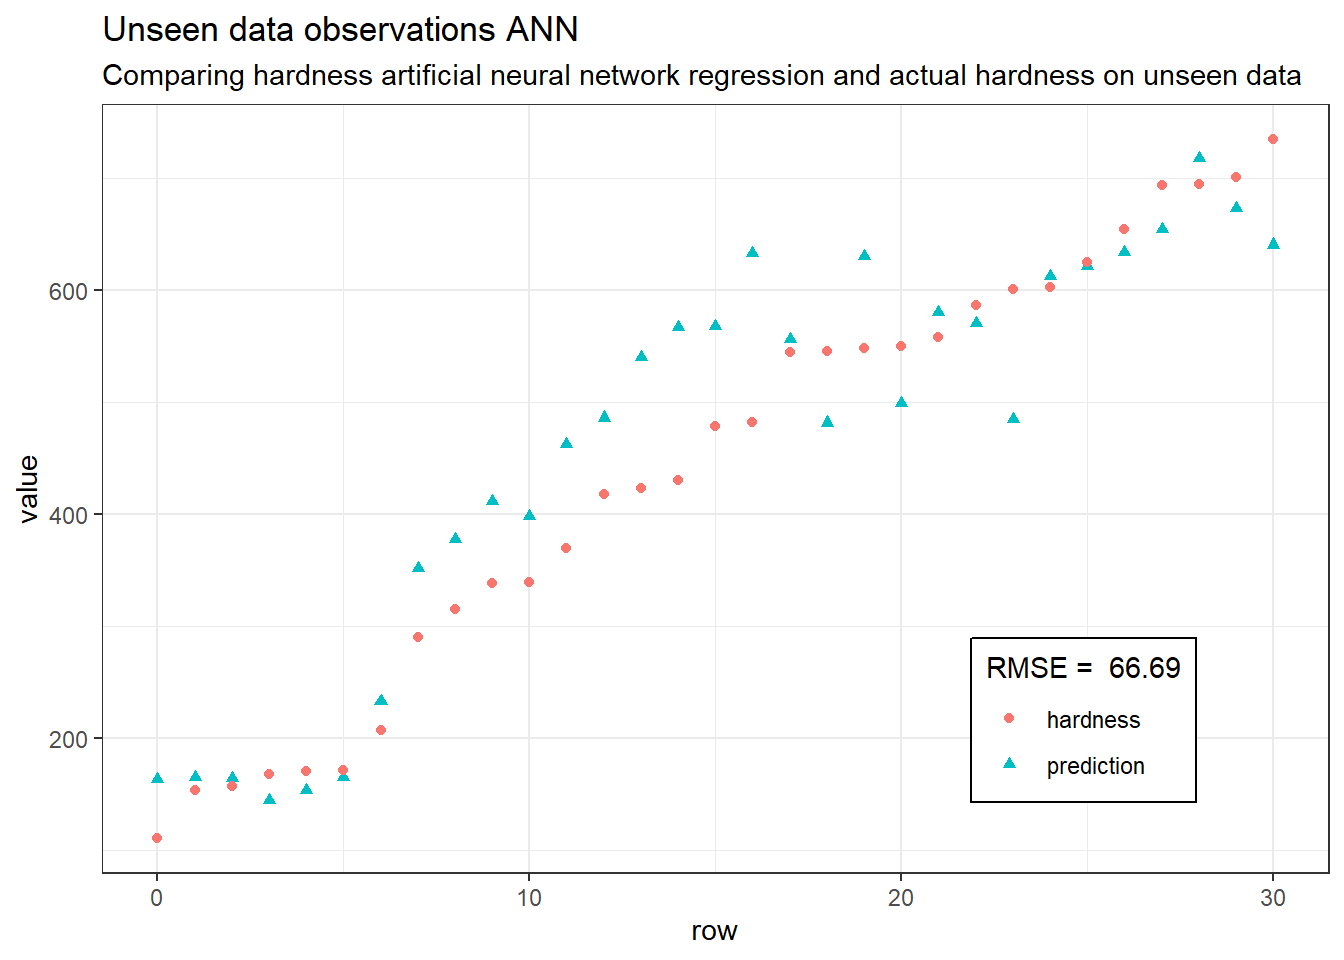
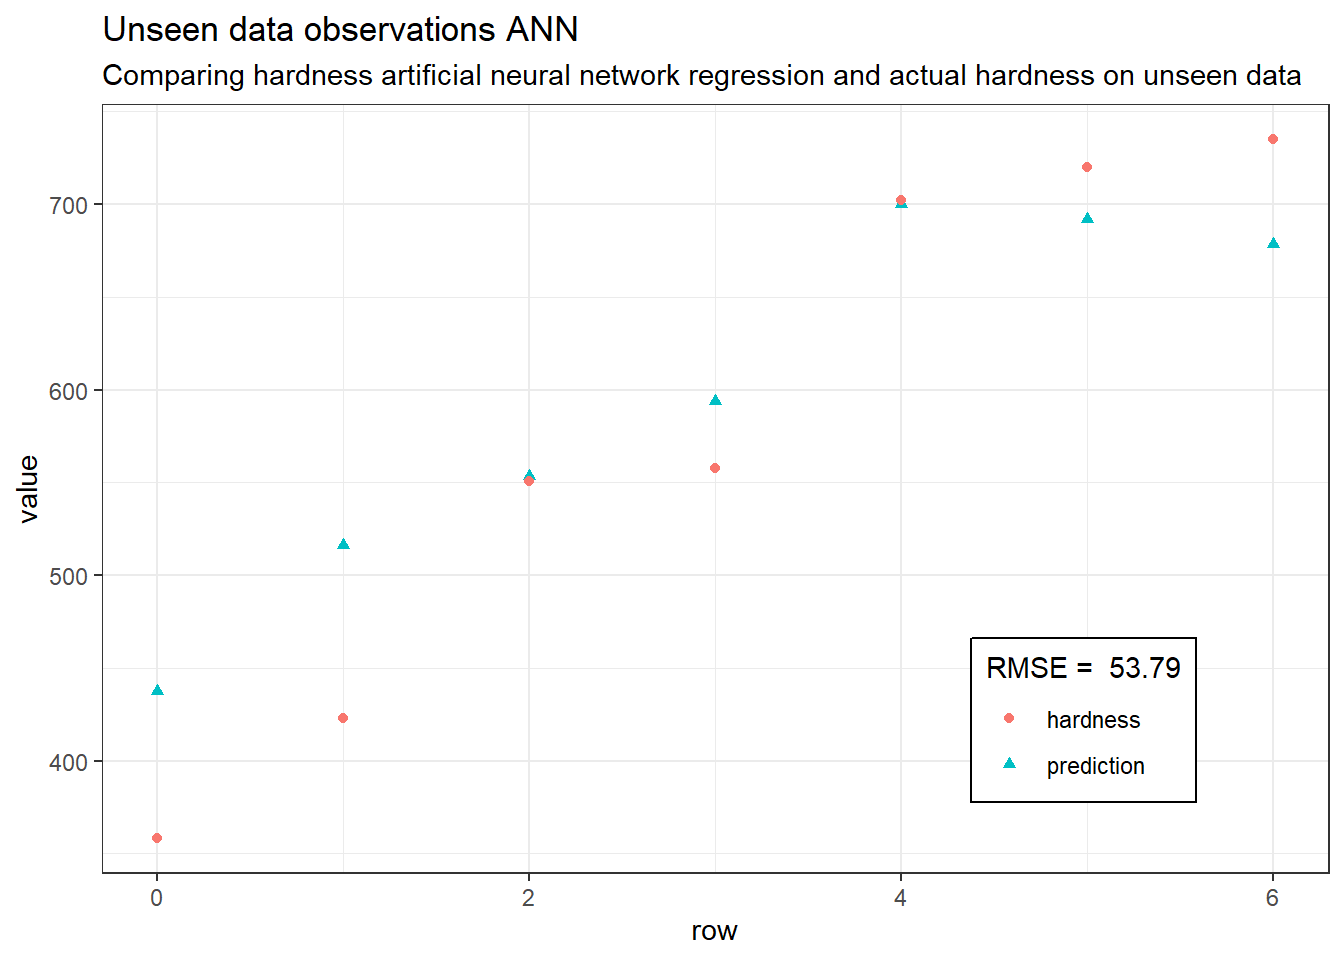
automated commit

diff --git a/public/2020/07/03/compositional-analysis/index.html b/public/2020/07/03/compositional-analysis/index.html
@@ -62,7 +62,7 @@
 
   <article class="article">
     
-    <span class="article-duration">7 min read</span>
+    <span class="article-duration">5 min read</span>
     
 
     <h1 class="article-title">Metallurgical compositional analysis</h1>
@@ -186,13 +186,13 @@ hard &lt;- read_csv(&quot;hardness.csv&quot;)
 #hard %&gt;% arrange(-hardness)</code></pre>
 <pre class="r"><code># Filtering out zero values for logratio transformations
 hard_ &lt;- hard %&gt;% 
-  #filter(Al &gt; 0, Co &gt; 0, Cr &gt; 0, Cu &gt; 0, Fe &gt; 0, Ni &gt; 0)
-   mutate(Al = ifelse(Al == 0, 1, Al),
-          Co = ifelse(Co == 0, 1, Co),
-          Cr = ifelse(Cr == 0, 1, Cr),
-          Cu = ifelse(Cu == 0, 1, Cu),
-          Fe = ifelse(Fe == 0, 1, Fe),
-          Ni = ifelse(Ni == 0, 1, Ni))</code></pre>
+  filter(Al &gt; 0, Co &gt; 0, Cr &gt; 0, Cu &gt; 0, Fe &gt; 0, Ni &gt; 0)
+  #mutate(Al = ifelse(Al == 0, 1, Al),
+  #        Co = ifelse(Co == 0, 1, Co),
+  #        Cr = ifelse(Cr == 0, 1, Cr),
+  #        Cu = ifelse(Cu == 0, 1, Cu),
+  #        Fe = ifelse(Fe == 0, 1, Fe),
+  #        Ni = ifelse(Ni == 0, 1, Ni))</code></pre>
 <pre class="r"><code># Setting x, y
 
 
@@ -244,13 +244,13 @@ predictions.full %&gt;%
 <p><img src="/2020/07/03/compositional-analysis/index_files/figure-html/unnamed-chunk-17-1.png" width="672" /></p>
 <pre class="r"><code># Linear regression on ILR logratio transformation  
 RMSE(predictions.full$prediction.clr.lm, predictions.full$hardness)</code></pre>
-<pre><code>## [1] 87.3938</code></pre>
+<pre><code>## [1] 63.40838</code></pre>
 <pre class="r"><code># Lasso regression on ILR logratio transformation
 RMSE(predictions.full$prediction.ilr.glm, predictions.full$hardness)</code></pre>
-<pre><code>## [1] 87.44176</code></pre>
+<pre><code>## [1] 64.58476</code></pre>
 <pre class="r"><code># generalised additive model
 RMSE(predictions.full$prediction.clr.gam, predictions.full$hardness)</code></pre>
-<pre><code>## [1] 87.3938</code></pre>
+<pre><code>## [1] 63.40838</code></pre>
 <pre class="r"><code># library(robCompositions)
 # aDist(x = hard_[,1:ncol(hard)-1])
 #Compositional::alfa.ridge(as.matrix(y), as.matrix(x),a = 0.01, lambda = 1)</code></pre>
@@ -276,7 +276,7 @@ hard_ann &lt;- cbind(hard_$hardness,as.tibble(hard.clr)) %&gt;%
   mutate_all(scale01) %&gt;% rename(&quot;hardness&quot; = &quot;hard_$hardness&quot;)
 
 
-set.seed(123)
+set.seed(111)
 hard_ann_train &lt;- sample_frac(tbl = hard_ann, replace = FALSE, size = 0.80)
 hard_ann_test &lt;- anti_join(hard_ann, hard_ann_train)</code></pre>
 <pre class="r"><code>hard_ann_model1 &lt;- neuralnet(hardness ~ Al + Co + 
@@ -297,9 +297,9 @@ hard_ann_sse2 &lt;- sum((hard_ann_test_output2 - hard_ann_test[, 1])^2)/2
 
 
 hard_ann_sse1</code></pre>
-<pre><code>## [1] 0.1559645</code></pre>
+<pre><code>## [1] 0.04433977</code></pre>
 <pre class="r"><code>hard_ann_sse2 # model 2 is more accurate</code></pre>
-<pre><code>## [1] 0.1558748</code></pre>
+<pre><code>## [1] 0.02979382</code></pre>
 <pre class="r"><code>dat &lt;- cbind(p = hard_ann_test_output2, hard_ann_test) %&gt;%
   arrange(hardness) %&gt;%
   mutate(row = row_number()) %&gt;% 
@@ -307,72 +307,8 @@ hard_ann_sse1</code></pre>
          hardness = scale02(hardness))
 
 
-dat</code></pre>
-<pre><code>##             p hardness          Al          Co          Cr           Cu
-## 1  0.08025127      110 0.459383079 0.822207735 0.674673178 0.0268815946
-## 2  0.08225840      153 0.028256877 0.830248992 0.357670890 0.9202565621
-## 3  0.08122400      157 0.008654047 0.720523903 0.591235196 0.7986361393
-## 4  0.05125158      168 0.437042556 0.799088811 0.655702647 0.0314371313
-## 5  0.06492592      170 0.091751450 0.939381313 0.770821471 0.1046872672
-## 6  0.08289677      171 0.001464359 0.774618372 0.635623112 0.8585950083
-## 7  0.18531365      207 0.471148738 0.660194372 0.541731021 0.7317662643
-## 8  0.36297614      290 0.629478674 0.013659784 0.604838861 0.8170118686
-## 9  0.40227888      315 0.655852328 0.011723956 0.599664076 0.8100218085
-## 10 0.45400940      338 0.665032372 0.774900154 0.635854332 0.0019831455
-## 11 0.43288219      339 0.679843819 0.010339998 0.594879031 0.8035582045
-## 12 0.53028570      370 0.718614305 0.002246823 0.606999183 0.8199300158
-## 13 0.56587768      418 0.641344621 0.660194372 0.541731021 0.7317662643
-## 14 0.64710868      423 0.641344621 0.660194372 0.541731021 0.7317662643
-## 15 0.68785006      430 0.876433709 0.902192960 0.072700350 0.0982030962
-## 16 0.68833110      479 0.771742101 0.747683865 0.613521654 0.0008959313
-## 17 0.78668798      482 0.849937686 0.726024390 0.595748692 0.0077060817
-## 18 0.67092907      545 0.768211123 0.615591497 0.005922995 0.8765193696
-## 19 0.55904764      546 0.779477613 0.008771169 0.574314370 0.7757796123
-## 20 0.78296022      548 0.773580528 0.796316823 0.653428056 0.0103665837
-## 21 0.58569235      550 0.806543872 0.435884783 0.681271536 0.0322407460
-## 22 0.70816058      558 0.733559049 0.606169810 0.497400469 0.6718848818
-## 23 0.69315897      587 0.773580528 0.796316823 0.653428056 0.0103665837
-## 24 0.56432395      601 0.625079139 0.643450831 0.611672335 0.5173335157
-## 25 0.75574472      603 0.783341307 0.595920729 0.488990452 0.6605246940
-## 26 0.77001926      625 0.800775038 0.592331504 0.486045267 0.6565463598
-## 27 0.78803216      655 0.823998848 0.587550228 0.482121929 0.6512467439
-## 28 0.81933605      694 0.895080046 0.466733048 0.528200371 0.5173317332
-## 29 0.91444580      695 0.822697893 0.919907330 0.754841843 0.0994068613
-## 30 0.84721112      701 0.907235679 0.758112256 0.393251453 0.5312011598
-## 31 0.79839193      735 0.837773718 0.584714282 0.479794858 0.6481033527
-##           Fe         Ni row prediction
-## 1  0.7453117 0.75097212   1   163.3671
-## 2  0.7526009 0.75838174   2   164.7018
-## 3  0.8112636 0.65727555   3   164.0140
-## 4  0.7748289 0.78097684   4   144.0823
-## 5  0.8515268 0.71109197   5   153.1757
-## 6  0.6218311 0.70712090   6   165.1264
-## 7  0.5984505 0.60168490   7   233.2336
-## 8  0.6681657 0.83465256   8   351.3791
-## 9  0.6624491 0.82885311   9   377.5155
-## 10 0.7024285 0.70738055  10   411.9162
-## 11 0.6571631 0.82349174  11   397.8667
-## 12 0.6705522 0.75334321  12   462.6400
-## 13 0.4396376 0.60168490  13   486.3087
-## 14 0.5984505 0.44024860  14   540.3273
-## 15 0.8178164 0.82467451  15   567.4203
-## 16 0.6777576 0.68230210  16   567.7402
-## 17 0.6581238 0.66234397  17   633.1475
-## 18 0.7168319 0.72202188  18   556.1678
-## 19 0.6344453 0.79971063  19   481.7667
-## 20 0.7218422 0.53824657  20   630.6685
-## 21 0.7526009 0.75838174  21   499.4854
-## 22 0.5494785 0.55190397  22   580.9268
-## 23 0.5360430 0.72711494  23   570.9507
-## 24 0.5832728 0.58625657  24   485.2754
-## 25 0.5401879 0.54245995  25   612.5702
-## 26 0.5369344 0.53915266  26   622.0628
-## 27 0.5326003 0.53474695  27   634.0414
-## 28 0.5835032 0.58649068  28   654.8585
-## 29 0.8338741 0.07598826  29   718.1065
-## 30 0.4344250 0.59802069  30   673.3954
-## 31 0.5300296 0.53213377  31   640.9306</code></pre>
-<pre class="r"><code>dat %&gt;% 
+
+dat %&gt;% 
   pivot_longer(c(&quot;prediction&quot;,&quot;hardness&quot;)) %&gt;% 
   mutate(row = as.integer((row_number()-1)/2)) %&gt;% 
   ggplot(aes(row, value, colour = name, shape = name)) + 

diff --git a/content/post/2020-07-03-compositional-analysis/index.html b/content/post/2020-07-03-compositional-analysis/index.html
@@ -120,13 +120,13 @@ hard &lt;- read_csv(&quot;hardness.csv&quot;)
 #hard %&gt;% arrange(-hardness)</code></pre>
 <pre class="r"><code># Filtering out zero values for logratio transformations
 hard_ &lt;- hard %&gt;% 
-  #filter(Al &gt; 0, Co &gt; 0, Cr &gt; 0, Cu &gt; 0, Fe &gt; 0, Ni &gt; 0)
-   mutate(Al = ifelse(Al == 0, 1, Al),
-          Co = ifelse(Co == 0, 1, Co),
-          Cr = ifelse(Cr == 0, 1, Cr),
-          Cu = ifelse(Cu == 0, 1, Cu),
-          Fe = ifelse(Fe == 0, 1, Fe),
-          Ni = ifelse(Ni == 0, 1, Ni))</code></pre>
+  filter(Al &gt; 0, Co &gt; 0, Cr &gt; 0, Cu &gt; 0, Fe &gt; 0, Ni &gt; 0)
+  #mutate(Al = ifelse(Al == 0, 1, Al),
+  #        Co = ifelse(Co == 0, 1, Co),
+  #        Cr = ifelse(Cr == 0, 1, Cr),
+  #        Cu = ifelse(Cu == 0, 1, Cu),
+  #        Fe = ifelse(Fe == 0, 1, Fe),
+  #        Ni = ifelse(Ni == 0, 1, Ni))</code></pre>
 <pre class="r"><code># Setting x, y
 
 
@@ -178,13 +178,13 @@ predictions.full %&gt;%
 <p><img src="{{< blogdown/postref >}}index_files/figure-html/unnamed-chunk-17-1.png" width="672" /></p>
 <pre class="r"><code># Linear regression on ILR logratio transformation  
 RMSE(predictions.full$prediction.clr.lm, predictions.full$hardness)</code></pre>
-<pre><code>## [1] 87.3938</code></pre>
+<pre><code>## [1] 63.40838</code></pre>
 <pre class="r"><code># Lasso regression on ILR logratio transformation
 RMSE(predictions.full$prediction.ilr.glm, predictions.full$hardness)</code></pre>
-<pre><code>## [1] 87.44176</code></pre>
+<pre><code>## [1] 64.58476</code></pre>
 <pre class="r"><code># generalised additive model
 RMSE(predictions.full$prediction.clr.gam, predictions.full$hardness)</code></pre>
-<pre><code>## [1] 87.3938</code></pre>
+<pre><code>## [1] 63.40838</code></pre>
 <pre class="r"><code># library(robCompositions)
 # aDist(x = hard_[,1:ncol(hard)-1])
 #Compositional::alfa.ridge(as.matrix(y), as.matrix(x),a = 0.01, lambda = 1)</code></pre>
@@ -210,7 +210,7 @@ hard_ann &lt;- cbind(hard_$hardness,as.tibble(hard.clr)) %&gt;%
   mutate_all(scale01) %&gt;% rename(&quot;hardness&quot; = &quot;hard_$hardness&quot;)
 
 
-set.seed(123)
+set.seed(111)
 hard_ann_train &lt;- sample_frac(tbl = hard_ann, replace = FALSE, size = 0.80)
 hard_ann_test &lt;- anti_join(hard_ann, hard_ann_train)</code></pre>
 <pre class="r"><code>hard_ann_model1 &lt;- neuralnet(hardness ~ Al + Co + 
@@ -231,9 +231,9 @@ hard_ann_sse2 &lt;- sum((hard_ann_test_output2 - hard_ann_test[, 1])^2)/2
 
 
 hard_ann_sse1</code></pre>
-<pre><code>## [1] 0.1559645</code></pre>
+<pre><code>## [1] 0.04433977</code></pre>
 <pre class="r"><code>hard_ann_sse2 # model 2 is more accurate</code></pre>
-<pre><code>## [1] 0.1558748</code></pre>
+<pre><code>## [1] 0.02979382</code></pre>
 <pre class="r"><code>dat &lt;- cbind(p = hard_ann_test_output2, hard_ann_test) %&gt;%
   arrange(hardness) %&gt;%
   mutate(row = row_number()) %&gt;% 
@@ -241,72 +241,8 @@ hard_ann_sse1</code></pre>
          hardness = scale02(hardness))
 
 
-dat</code></pre>
-<pre><code>##             p hardness          Al          Co          Cr           Cu
-## 1  0.08025127      110 0.459383079 0.822207735 0.674673178 0.0268815946
-## 2  0.08225840      153 0.028256877 0.830248992 0.357670890 0.9202565621
-## 3  0.08122400      157 0.008654047 0.720523903 0.591235196 0.7986361393
-## 4  0.05125158      168 0.437042556 0.799088811 0.655702647 0.0314371313
-## 5  0.06492592      170 0.091751450 0.939381313 0.770821471 0.1046872672
-## 6  0.08289677      171 0.001464359 0.774618372 0.635623112 0.8585950083
-## 7  0.18531365      207 0.471148738 0.660194372 0.541731021 0.7317662643
-## 8  0.36297614      290 0.629478674 0.013659784 0.604838861 0.8170118686
-## 9  0.40227888      315 0.655852328 0.011723956 0.599664076 0.8100218085
-## 10 0.45400940      338 0.665032372 0.774900154 0.635854332 0.0019831455
-## 11 0.43288219      339 0.679843819 0.010339998 0.594879031 0.8035582045
-## 12 0.53028570      370 0.718614305 0.002246823 0.606999183 0.8199300158
-## 13 0.56587768      418 0.641344621 0.660194372 0.541731021 0.7317662643
-## 14 0.64710868      423 0.641344621 0.660194372 0.541731021 0.7317662643
-## 15 0.68785006      430 0.876433709 0.902192960 0.072700350 0.0982030962
-## 16 0.68833110      479 0.771742101 0.747683865 0.613521654 0.0008959313
-## 17 0.78668798      482 0.849937686 0.726024390 0.595748692 0.0077060817
-## 18 0.67092907      545 0.768211123 0.615591497 0.005922995 0.8765193696
-## 19 0.55904764      546 0.779477613 0.008771169 0.574314370 0.7757796123
-## 20 0.78296022      548 0.773580528 0.796316823 0.653428056 0.0103665837
-## 21 0.58569235      550 0.806543872 0.435884783 0.681271536 0.0322407460
-## 22 0.70816058      558 0.733559049 0.606169810 0.497400469 0.6718848818
-## 23 0.69315897      587 0.773580528 0.796316823 0.653428056 0.0103665837
-## 24 0.56432395      601 0.625079139 0.643450831 0.611672335 0.5173335157
-## 25 0.75574472      603 0.783341307 0.595920729 0.488990452 0.6605246940
-## 26 0.77001926      625 0.800775038 0.592331504 0.486045267 0.6565463598
-## 27 0.78803216      655 0.823998848 0.587550228 0.482121929 0.6512467439
-## 28 0.81933605      694 0.895080046 0.466733048 0.528200371 0.5173317332
-## 29 0.91444580      695 0.822697893 0.919907330 0.754841843 0.0994068613
-## 30 0.84721112      701 0.907235679 0.758112256 0.393251453 0.5312011598
-## 31 0.79839193      735 0.837773718 0.584714282 0.479794858 0.6481033527
-##           Fe         Ni row prediction
-## 1  0.7453117 0.75097212   1   163.3671
-## 2  0.7526009 0.75838174   2   164.7018
-## 3  0.8112636 0.65727555   3   164.0140
-## 4  0.7748289 0.78097684   4   144.0823
-## 5  0.8515268 0.71109197   5   153.1757
-## 6  0.6218311 0.70712090   6   165.1264
-## 7  0.5984505 0.60168490   7   233.2336
-## 8  0.6681657 0.83465256   8   351.3791
-## 9  0.6624491 0.82885311   9   377.5155
-## 10 0.7024285 0.70738055  10   411.9162
-## 11 0.6571631 0.82349174  11   397.8667
-## 12 0.6705522 0.75334321  12   462.6400
-## 13 0.4396376 0.60168490  13   486.3087
-## 14 0.5984505 0.44024860  14   540.3273
-## 15 0.8178164 0.82467451  15   567.4203
-## 16 0.6777576 0.68230210  16   567.7402
-## 17 0.6581238 0.66234397  17   633.1475
-## 18 0.7168319 0.72202188  18   556.1678
-## 19 0.6344453 0.79971063  19   481.7667
-## 20 0.7218422 0.53824657  20   630.6685
-## 21 0.7526009 0.75838174  21   499.4854
-## 22 0.5494785 0.55190397  22   580.9268
-## 23 0.5360430 0.72711494  23   570.9507
-## 24 0.5832728 0.58625657  24   485.2754
-## 25 0.5401879 0.54245995  25   612.5702
-## 26 0.5369344 0.53915266  26   622.0628
-## 27 0.5326003 0.53474695  27   634.0414
-## 28 0.5835032 0.58649068  28   654.8585
-## 29 0.8338741 0.07598826  29   718.1065
-## 30 0.4344250 0.59802069  30   673.3954
-## 31 0.5300296 0.53213377  31   640.9306</code></pre>
-<pre class="r"><code>dat %&gt;% 
+
+dat %&gt;% 
   pivot_longer(c(&quot;prediction&quot;,&quot;hardness&quot;)) %&gt;% 
   mutate(row = as.integer((row_number()-1)/2)) %&gt;% 
   ggplot(aes(row, value, colour = name, shape = name)) + 
